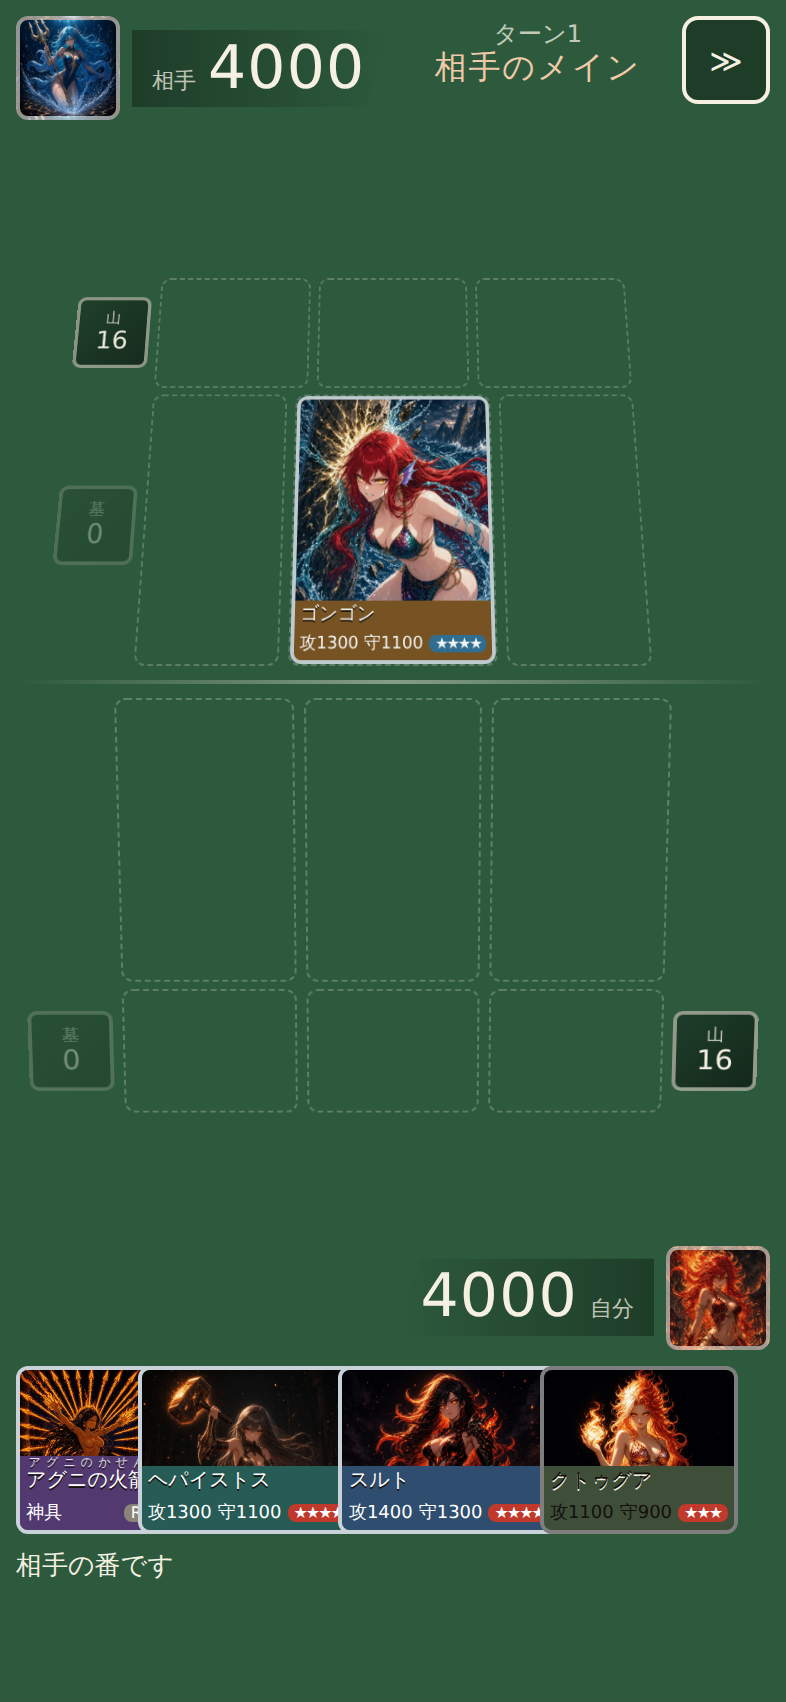
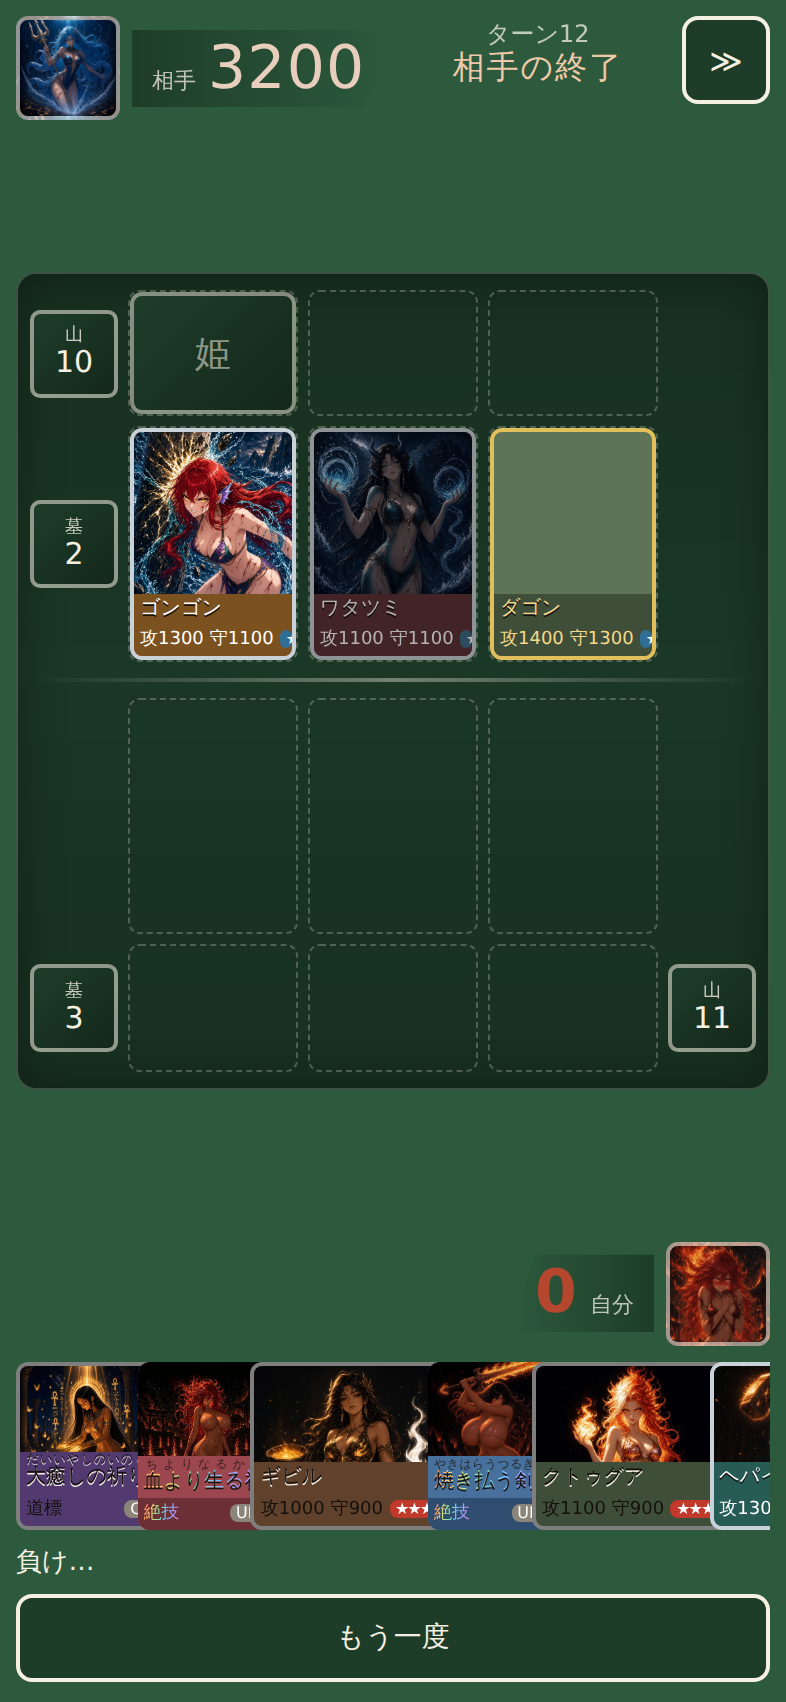
maniwa-duel: 盤を真上から見下ろす形にする（奥行きをやめる）
SPEC 8.1 から奥行きを外し、卓を真上から見る形にした。両者の場が同じ大きさになり、
カード名も攻守の数字もどこでも同じように読める。

奥行きをやめた理由は2つ。

1. 縮めると 44px の下限を割る。実機サイズで測ると相手の魔法罠枠が 43px になった
   （rotateX(16deg) scale(0.9) で縮み率 0.865）。角度を緩めれば満たせるが、
   見た目の都合で下限に張り付く形になる
2. 奥行きを出すほど文字が読みにくくなる。実物はタップでカードを拡大できるので
   成立しているが、そこまで作らないなら読みやすさを取るほうがよい

卓の面を1枚の板として描き、中央線で自陣と敵陣を分ける。枠が宙に浮かず、
盤の上に並んでいるように見える。

**あわせて、奥行きを外して初めて見えた不具合を1つ直した。**

grid-template-columns に 1fr を使っていたが、1fr は minmax(auto, 1fr) と同じで
最小内容幅を下回れない。そのためカードが入った枠だけ 110px に広がり、
**空いている枠が 35px まで潰れて 44px の下限を割っていた**（実機で実測）。
minmax(0, 1fr) にして3枠が常に等分になるようにした。

同じ原因で、カードの幅を aspect-ratio から出すと列よりも広くなってはみ出すので、
枠いっぱいに収める形に変え、枠の高さのほうを列幅（約85px）に対して 3:4 に近い
118px までに抑えた。守備表示の倍率も「回した長辺が枠の幅に収まる」0.70 にした。

実機サイズ（393×851）で3回続けて確認: 横スクロール0 / 44px未満0 / JSエラー0。

Claude-Session: https://claude.ai/code/session_017YwsmvgdxHKK3joU9GQJHf

diff --git a/games/maniwa-duel/src/game/style.css b/games/maniwa-duel/src/game/style.css
@@ -165,59 +165,62 @@ body {
 /* ---------------------------------------------------------------- 盤面 */
 
 /*
- * 奥行きを付ける（SPEC 8.1）。実物は盤をかなり寝かせているが、同じ角度を DOM でやると
- * カード名と攻守の数字が読めなくなる（実物はタップで拡大できるので成立している）。
+ * **真上から見下ろす盤**（SPEC 8.1）。奥行きは付けない。
  *
- * そこで**相手側だけを奥へ縮め、カード自体は倒さない**。文字は常に正面を向く。
+ * 一度 rotateX で相手側を奥へ縮める形を作ったが、縮めると相手の魔法罠枠が
+ * 実測43px になって 44px の下限を割った。角度を緩めれば満たせるが、
+ * 見た目の都合で下限に張り付く形になる。奥行きを出すほど文字も読みにくくなる。
+ *
+ * 真上から見る形にすると両方とも起きない。**両者の場が同じ大きさ**になり、
+ * カード名も攻守の数字もどこでも同じように読める。
  */
 .board {
   display: flex;
   flex-direction: column;
   justify-content: center;
-  gap: 4px;
   flex: 1 1 auto;
   min-height: 0;
-  perspective: 760px;
-  perspective-origin: 50% 0%;
+}
+
+/* 卓の面。枠が宙に浮かず、1枚の板の上に並んでいるように見せる */
+.board__table {
+  display: flex;
+  flex-direction: column;
+  gap: 5px;
+  padding: 8px 6px;
+  border-radius: 10px;
+  background:
+    linear-gradient(180deg, rgba(0, 0, 0, 0.22), rgba(0, 0, 0, 0.1) 48%, rgba(0, 0, 0, 0.22)),
+    var(--forest-dark);
+  border: 1px solid rgba(245, 240, 225, 0.18);
+  box-shadow: inset 0 0 22px rgba(0, 0, 0, 0.35);
 }
 
 .field {
   display: flex;
   flex-direction: column;
-  gap: 4px;
-  transform-style: flat;
+  gap: 5px;
 }
 
-/*
- * 奥。**枠の実寸が 44px を割らない角度にとどめる**（CLAUDE.md 6章）。
- *
- * 最初は rotateX(16deg) scale(0.9) にしたが、実機サイズで測ると
- * 相手の魔法罠枠が **43px** になって下限を割った（縮み率 0.865）。
- * 13度・0.93 に緩めて縮み率 0.906 とし、あわせて魔法罠の下限を 52px に上げた。
- * 52 × 0.906 = 47px で下限を満たす。
- */
-.field--far {
-  transform: perspective(760px) rotateX(13deg) scale(0.93);
-  transform-origin: 50% 100%;
-  opacity: 0.94;
-}
-
-.field--near {
-  transform: perspective(760px) rotateX(-4deg);
-  transform-origin: 50% 0%;
-}
-
+/* 自陣と敵陣を分ける中央線 */
 .board__line {
   height: 2px;
   background: linear-gradient(90deg, transparent, var(--cream), transparent);
-  opacity: 0.45;
-  margin: 3px 0;
+  opacity: 0.4;
+  margin: 3px 2px;
 }
 
-/* 両端に札束の枠を置くので 44px + 3列 + 44px */
+/*
+ * 両端に札束の枠を置くので 44px + 3列 + 44px。
+ *
+ * **1fr ではなく minmax(0, 1fr) にする。** 1fr は minmax(auto, 1fr) と同じで
+ * 最小内容幅を下回れないため、カードが入った枠だけ 110px に広がり、
+ * **空いている枠が 35px まで潰れた**（実機サイズで実測。44px の下限割れ）。
+ * minmax(0, ...) にすると3枠が常に等分になる。
+ */
 .row {
   display: grid;
-  grid-template-columns: var(--tap) repeat(3, 1fr) var(--tap);
+  grid-template-columns: var(--tap) repeat(3, minmax(0, 1fr)) var(--tap);
   gap: 5px;
   align-items: center;
 }
@@ -229,8 +232,12 @@ body {
  * （最初にそう書いて実機サイズで確かめたら、ボタンが画面外に出た）。
  * 枠は幅いっぱいに取り、**中のカードだけが 3:4 を保って中央に載る**。
  */
+/*
+ * 高さは 3列の幅（約85px）に対して 3:4 に近くなるところで止める。
+ * 高くしすぎるとカードが枠より幅広になり、列からはみ出す。
+ */
 .slot {
-  height: clamp(92px, 19vh, 150px);
+  height: clamp(88px, 14vh, 118px);
   border: 1px dashed rgba(245, 240, 225, 0.25);
   border-radius: 6px;
   display: flex;
@@ -240,14 +247,13 @@ body {
 }
 
 .row--spell .slot {
-  /* 下限52px は「奥へ縮めても 44px を割らない」ところから決めた（.field--far 参照） */
-  height: clamp(52px, 8vh, 70px);
+  height: clamp(46px, 7.5vh, 66px);
 }
 
+/* 枠いっぱいに収める。aspect-ratio で幅を決めると列からはみ出す（上記） */
 .row--monster .card {
-  width: auto;
+  width: 100%;
   height: 100%;
-  aspect-ratio: 3 / 4;
 }
 
 /* 盤に置く札束。数を札の上に載せる（SPEC 8.1） */
@@ -392,6 +398,8 @@ body {
   padding: 1px 3px 2px;
   background: var(--card-deep, #222);
   font-size: 9px;
+  /* 攻守とレベルが枠を押し広げないように閉じる */
+  overflow: hidden;
 }
 
 .card__stat {
@@ -434,9 +442,13 @@ body {
   color: rgba(245, 240, 225, 0.55);
 }
 
-/* 守備表示は横向きに見せる。遊戯王の約束ごとなので形で伝える */
+/*
+ * 守備表示は横向きに見せる。遊戯王の約束ごとなので形で伝える。
+ * 倍率は「回した長辺が枠の幅（約85px）に収まる」ところから決めた。
+ * 枠の高さ118px × 0.70 = 83px。
+ */
 .card--defense {
-  transform: rotate(90deg) scale(0.74);
+  transform: rotate(90deg) scale(0.7);
 }
 
 .card--spent {

diff --git a/games/maniwa-duel/src/game/view.ts b/games/maniwa-duel/src/game/view.ts
@@ -282,20 +282,24 @@ export function renderDuel(root: HTMLElement, vm: ViewModel, h: ViewHandlers): v
   head.appendChild(ff)
   root.appendChild(head)
 
-  // --- 盤（SPEC 8.1）。相手側は奥へ、自分側は手前へ
+  // --- 盤（SPEC 8.1）。真上から見下ろす。奥行きは付けない
   const board = el('div', 'board')
-  const far = el('div', 'field field--far')
+  const table = el('div', 'board__table')
+
+  const far = el('div', 'field')
   far.appendChild(zoneRow(vm, foe, 'spell', h, pile('deck', them.deck.length), null))
   far.appendChild(zoneRow(vm, foe, 'monster', h, pile('grave', them.graveyard.length), null))
-  board.appendChild(far)
+  table.appendChild(far)
 
-  board.appendChild(el('div', 'board__line'))
+  table.appendChild(el('div', 'board__line'))
 
-  const near = el('div', 'field field--near')
+  const near = el('div', 'field')
   near.appendChild(zoneRow(vm, vm.human, 'monster', h, null, null))
   near.appendChild(zoneRow(vm, vm.human, 'spell', h,
     pile('grave', me.graveyard.length), pile('deck', me.deck.length)))
-  board.appendChild(near)
+  table.appendChild(near)
+
+  board.appendChild(table)
   root.appendChild(board)
 
   // --- 下部: 自分のライフ、手札、説明、ボタン

diff --git a/games/maniwa-duel/SPEC.md b/games/maniwa-duel/SPEC.md
@@ -695,7 +695,7 @@ v1 で新しい効果タイプを足すときは、**先にこの表に追記し
 
 | 参考にした点 | なぜ効くか |
 |---|---|
-| **奥行きのある盤** | 相手側が奥に縮むぶん縦が節約でき、手前（自分の場）を大きく保てる |
+| **真上から見下ろす盤** | 奥行きを付けずに卓を真上から見る。両者の場が同じ大きさで、**文字がどこでも同じように読める** |
 | **ライフが画面で一番大きい要素**。斜めの帯で隅に置く | 決着はライフでしか起きない。最も読む数字を最も大きくする |
 | **デッキ・墓地は盤の上の札束**。数を札の上に載せる | 「山16 墓0」という文字行より、場所と量が同時に伝わる |
 | **ターンとフェイズは上部中央に大きく** | 相手の番か自分の番かが、目を動かさずに分かる |
@@ -708,11 +708,13 @@ v1 で新しい効果タイプを足すときは、**先にこの表に追記し
 │ ◪ 相手           ターン2        ≫ │  立ち絵・ターン・早送り
 │   ライフ 4000    相手のメイン      │  ライフは斜めの帯で大きく
 ├──────────────────────────┤
-│ ▤  [魔] [魔] [魔]                │  ← 奥。縮んで見える
-│ 山  [獣] [獣] [獣]   ▤ 墓         │
-│ ─────────────────────── │  中央線
-│     [獣] [獣] [獣]               │  ← 手前。大きい
-│ 墓  [魔] [魔] [魔]   ▤ 山         │
+│ ┌────────────────────────┐ │
+│ │ 山  [魔] [魔] [魔]           │ │  卓の面。真上から見る
+│ │ 墓  [獣] [獣] [獣]           │ │
+│ │ ─────────────────────│ │  中央線
+│ │     [獣] [獣] [獣]           │ │
+│ │ 墓  [魔] [魔] [魔]   山      │ │
+│ └────────────────────────┘ │
 ├──────────────────────────┤
 │   ライフ 4000              ◪ 自分 │
 ├──────────────────────────┤
@@ -722,19 +724,21 @@ v1 で新しい効果タイプを足すときは、**先にこの表に追記し
 └──────────────────────────┘
 ```
 
-#### 奥行きは付けるが、**文字が読めなくなるところまでは倒さない**
+#### 奥行きは付けない（2026-09-25 決定）
 
-実物は盤をかなり寝かせていて、カードが台形に見える。同じ角度を DOM でやると
-**カード名と攻守の数字が読めなくなる**（実物はタップで拡大できるので成立している）。
+実物は盤を寝かせて奥行きを出しているが、**このゲームでは付けない。**
 
-そこで次のようにする。
+一度 `rotateX` で相手側を奥へ縮める形を作ったが、次の2つが引っかかった。
 
-- 盤全体に `perspective` を掛け、**相手側だけ奥へ縮める**
-- カード自体は倒さない。**文字は常に正面を向く**
-- 相手側の枠が縮んでも、**タップ領域44px四方の下限は割らない**（CLAUDE.md 6章）
+1. **縮めると 44px の下限を割る。** 実機サイズで測ると相手の魔法罠枠が **43px** になった
+   （`rotateX(16deg) scale(0.9)` で縮み率 0.865）。角度を緩めれば満たせるが、
+   **見た目の都合で下限に張り付く形になる**
+2. **奥行きを出すほど文字が読みにくくなる。** 実物はタップでカードを拡大できるので
+   成立しているが、そこまで作らないなら読みやすさを取るほうがよい
 
-**倒す角度は実測で決める。** 実機サイズ（393×851）で撮って、
-相手の枠の実寸が44px を割らないことを確かめてから確定する。
+**真上から見下ろす形にすると、両方とも起きない。** 両者の場が同じ大きさになり、
+カード名も攻守の数字もどこでも同じように読める。卓の面を1枚の板として描き、
+中央線で自陣と敵陣を分ける。
 
 #### 立ち絵はデッキの主の姫神
 
